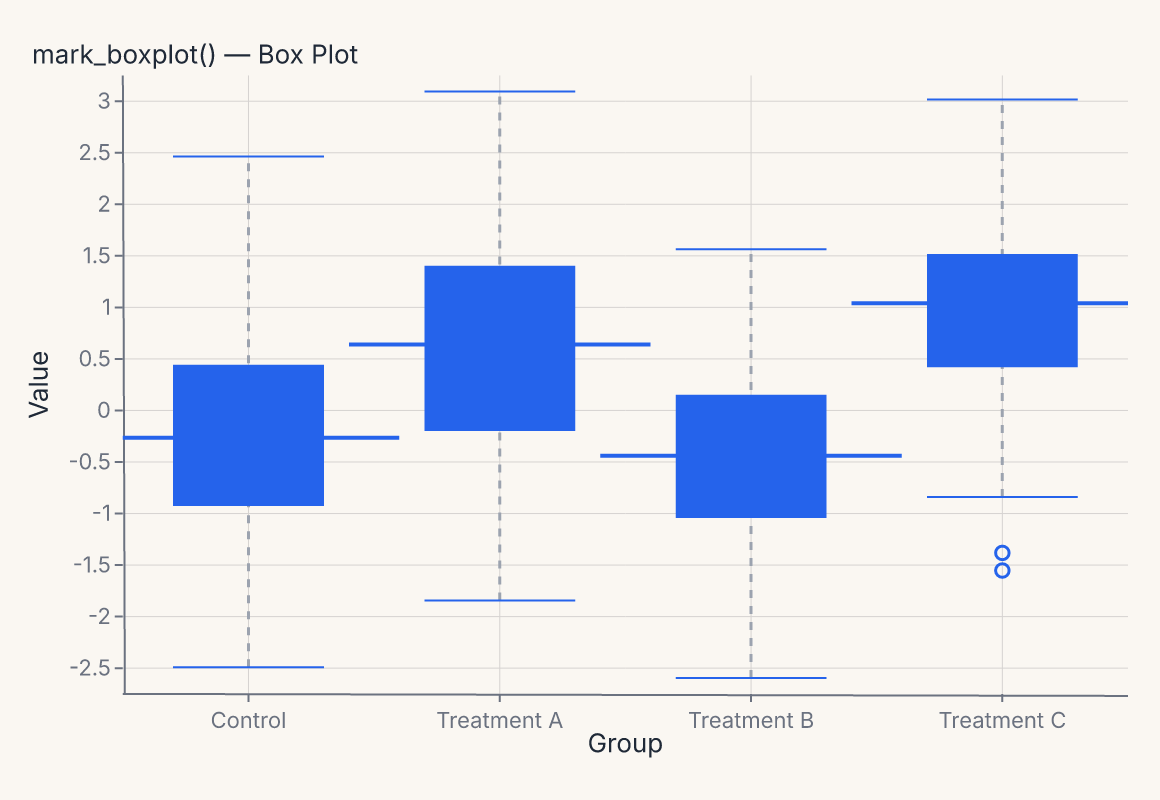
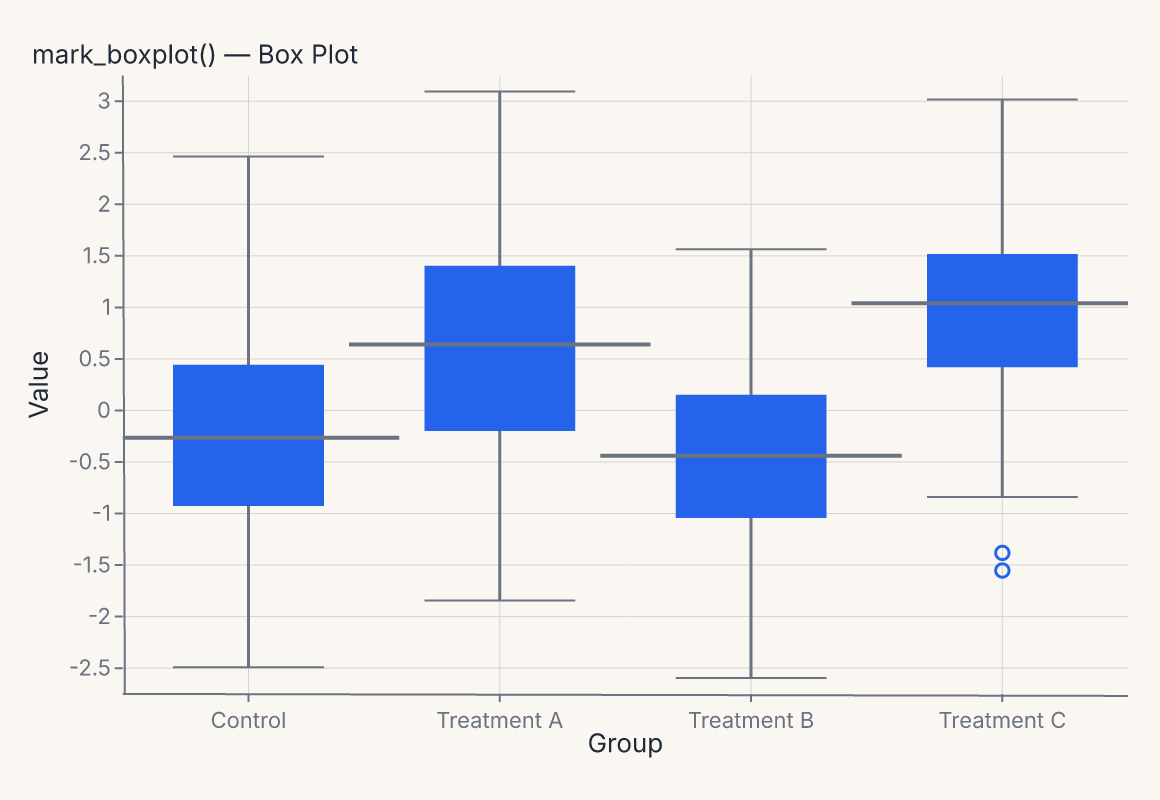
docs: regenerate stale gallery PNGs and add precomputed-scores section
Refresh 9 gallery images that were outdated (missing hex marks, old
whisker/errorbar styling, spurious raster background). Add a
"Precomputed scores" section to model-diagnostics.md documenting the
y_true=/y_pred= path for figure-level helpers.

diff --git a/docs/site/guide/model-diagnostics.md b/docs/site/guide/model-diagnostics.md
@@ -116,6 +116,48 @@ The boundary `ModelSource` enforces is the load-bearing one: it computes the der
 
 `ModelSource` also lazy-imports sklearn, shap, and umap as needed: `import ferrum` does not pull those packages into your process. They load only when you actually compute a diagnostic that requires them.
 
+## Precomputed scores (no model required)
+
+Every classification and regression helper also accepts raw `y_true=` / `y_pred=` arrays instead of a fitted model. This is useful when you already have predictions — from a saved CSV, a batch inference job, a non-sklearn framework, or an evaluation pipeline that separates prediction from visualization:
+
+```python
+import ferrum as fm
+from sklearn.datasets import load_breast_cancer
+from sklearn.ensemble import RandomForestClassifier
+from sklearn.model_selection import train_test_split
+
+data = load_breast_cancer()
+X_train, X_test, y_train, y_test = train_test_split(data.data, data.target, random_state=0)
+model = RandomForestClassifier(n_estimators=20, random_state=0).fit(X_train, y_train)
+
+# Predict once, visualize many ways
+y_proba = model.predict_proba(X_test)
+y_pred = model.predict(X_test)
+
+roc = fm.roc_chart(y_true=y_test, y_pred=y_proba)
+cm = fm.confusion_matrix_chart(y_true=y_test, y_pred=y_pred)
+report = roc | cm
+assert report.show_svg().startswith("<svg")
+```
+
+The two paths are mutually exclusive — pass either `model, X, y` or `y_true=, y_pred=`, not both.
+
+### What `y_pred` means
+
+The interpretation of `y_pred` depends on the chart:
+
+| Chart needs | What to pass as `y_pred` | Helpers |
+|---|---|---|
+| Soft scores / probabilities | `predict_proba(X)` (1-D binary or 2-D multiclass) | `roc_chart`, `pr_chart`, `calibration_chart`, `gain_chart`, `lift_chart`, `discrimination_threshold_chart` |
+| Hard class labels | `predict(X)` (1-D) | `confusion_matrix_chart`, `class_prediction_error_chart` |
+| Fitted values | `predict(X)` (1-D continuous) | `residuals_chart`, `prediction_error_chart` |
+
+### Limitations of the precomputed path
+
+- **No `compare=`** — multi-model comparison requires fitted models so each can be re-predicted on the same data.
+- **No `cv=`** — cross-validation helpers (`learning_curve_chart`, `validation_curve_chart`, `cv_scores_chart`) need a model to re-fit across folds.
+- **No feature-based helpers** — `importance_chart`, `shap_chart`, `pdp_chart`, and clustering helpers require a model or `ModelSource`.
+
 ## sklearn-protocol visualizers
 
 For lifecycle control or yellowbrick-style ergonomics, every diagnostic also has a visualizer class. The visualizer takes the model at construction time, runs through `.fit()` / `.score()`, and exposes `.show()` which returns a `Chart`:
